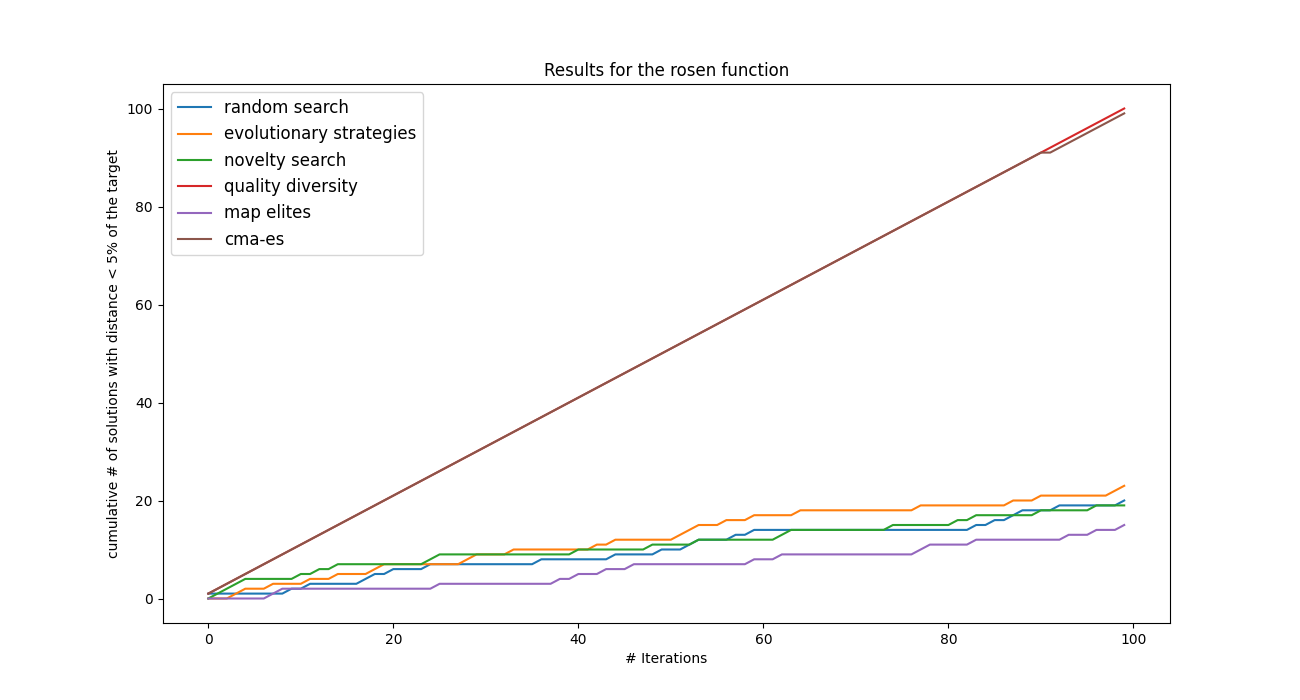
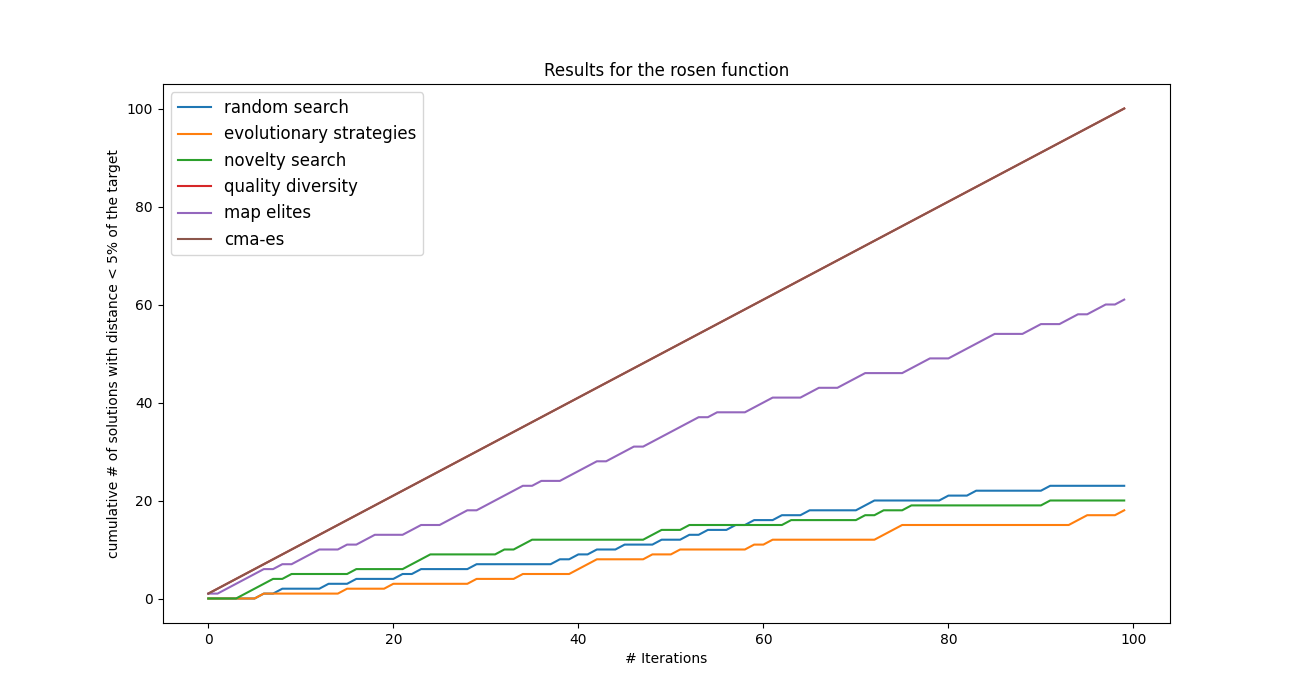
run benchmark

diff --git a/benchmark.py b/benchmark.py
@@ -10,7 +10,7 @@ from optimisation.functions import Function, functions
 X_SHAPE = 2
 X_MIN = -4
 X_MAX = 4
-NUM_EXP = 10
+NUM_EXP = 100
 NUM_ITER = 1000
 
 results = pd.DataFrame()
